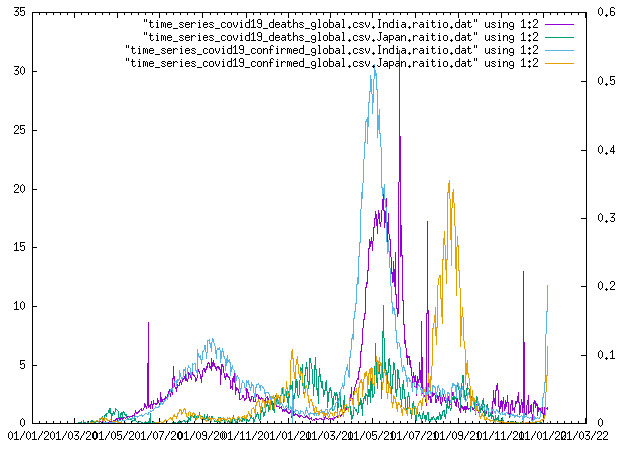
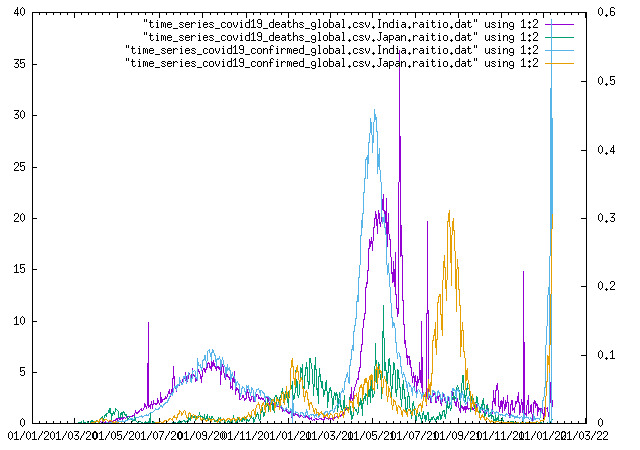
up

diff --git a/index.html b/index.html
@@ -131,7 +131,7 @@ border-left:none;
   <li><a href="https://raw.githubusercontent.com/KeiHasegawa/covid19/master/JapanRussia.jpg">日本, ロシア 10 万人当りの新規陽性者数と死者数</a></li>
   <li><a href="https://raw.githubusercontent.com/KeiHasegawa/covid19/master/JapanUK.jpg">日本, イギリス 10 万人当りの新規陽性者数と死者数</a></li>
   <li><a href="https://raw.githubusercontent.com/KeiHasegawa/covid19/master/Sat_Aug_28_13:00:00_2021.jpg">東京, 千葉, 埼玉, 神奈川の 2021/08/28 (土) 13:00 の人出</a></li>
-  <li><a href="https://raw.githubusercontent.com/KeiHasegawa/covid19/master/Nihonbashi.jpg">日本橋の人出(2021/08/22 - 2022/01/09)</a></li>
+  <li><a href="https://raw.githubusercontent.com/KeiHasegawa/covid19/master/Nihonbashi.jpg">日本橋の人出(2021/08/22 - 2022/01/16)</a></li>
   <li><a href="https://raw.githubusercontent.com/KeiHasegawa/covid19/master/read_tokyo.cpp">read_tokyo.cpp</a></li>
   <li><a href="https://raw.githubusercontent.com/KeiHasegawa/covid19/master/read_nhk.cpp">read_nhk.cpp</a></li>
   <li><a href="https://raw.githubusercontent.com/KeiHasegawa/covid19/master/read_tsc19.cpp">read_tsc19.cpp</a></li>

diff --git a/disp_main.cpp b/disp_main.cpp
@@ -2159,6 +2159,11 @@ int read_dll()
     "../2022.01.07.18/2022_01_07_18",
     "../2022.01.08.18/2022_01_08_18",
     "../2022.01.09.18/2022_01_09_18",
+    "../2022.01.10.18/2022_01_10_18",
+    "../2022.01.13.18/2022_01_13_18",
+    "../2022.01.14.18/2022_01_14_18",
+    "../2022.01.15.18/2022_01_15_18",
+    "../2022.01.16.18/2022_01_16_18",
   };
   auto p = find_if(begin(dll), end(dll), read_dll1);
   return p - end(dll);
